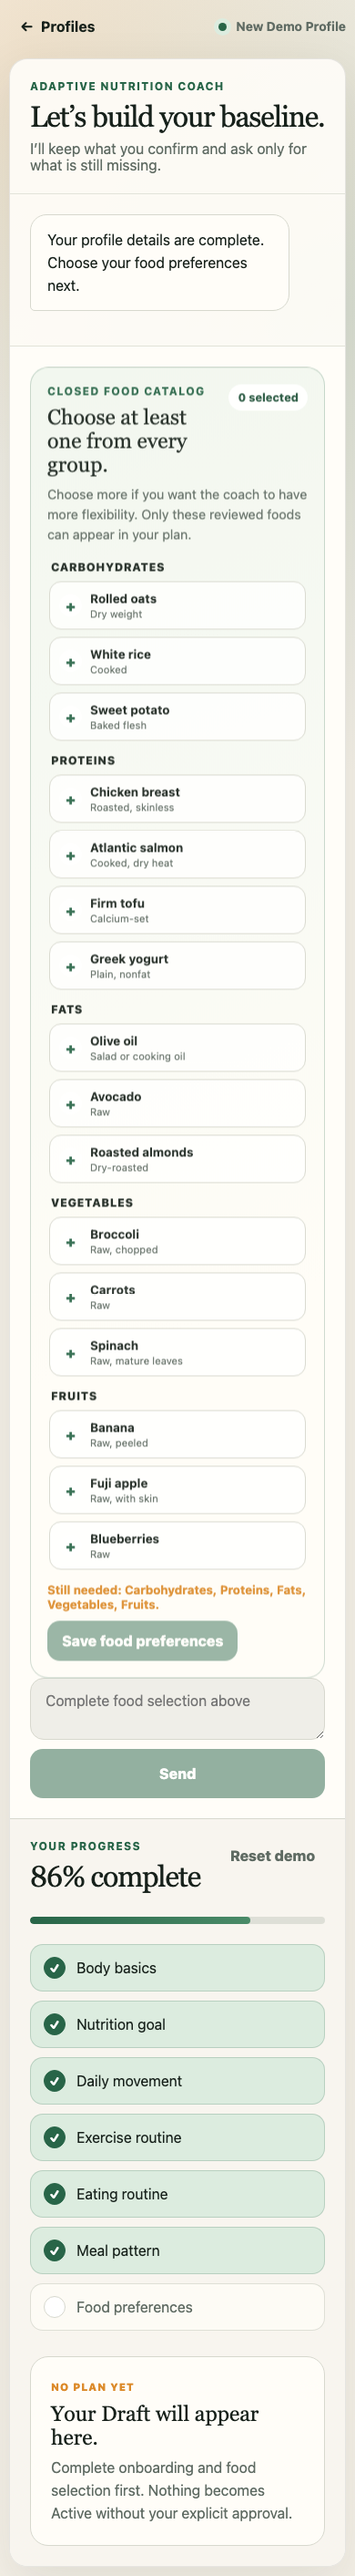
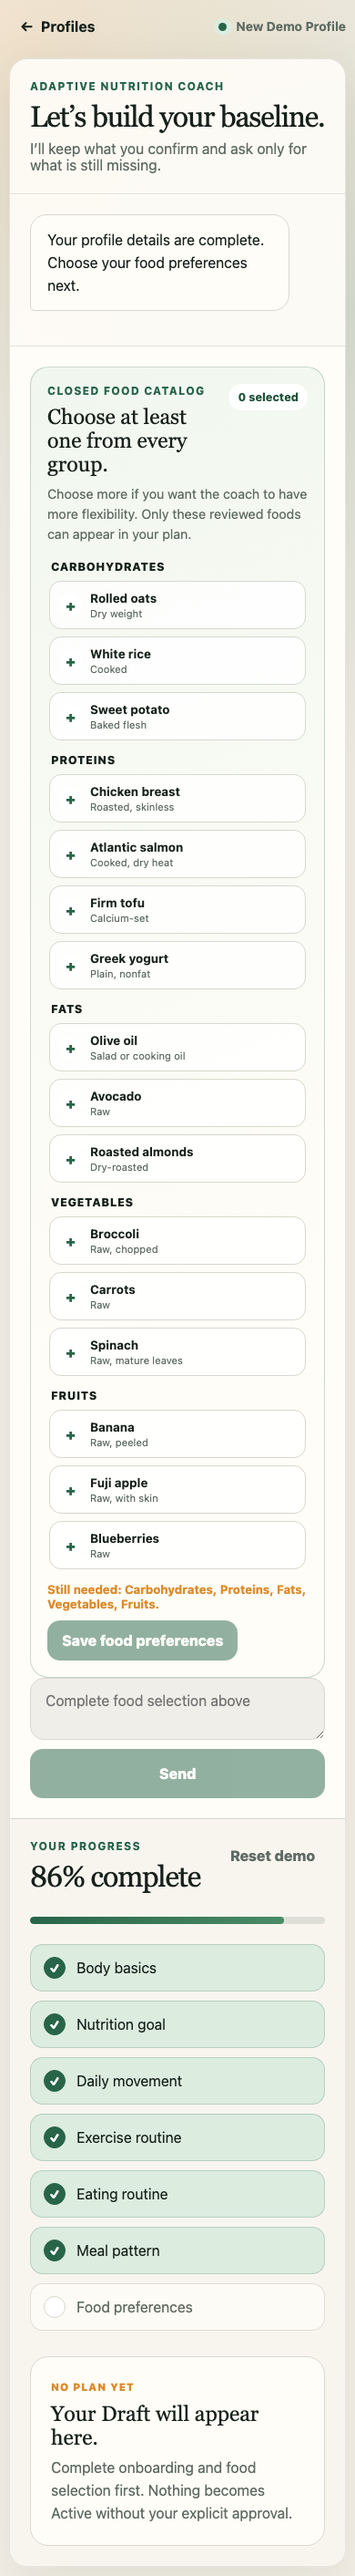
feat: collect feedback after draft decline

diff --git a/src/components/coach-workspace/CoachWorkspace.tsx b/src/components/coach-workspace/CoachWorkspace.tsx
@@ -220,7 +220,11 @@ export function CoachWorkspace({ profileId }: { profileId: DemoProfileId }) {
         headers: { "Content-Type": "application/json" },
         body: JSON.stringify(
           operation === "draft"
-            ? { commandId: command.id, profile: state.profile }
+            ? {
+                commandId: command.id,
+                message: command.message,
+                profile: state.profile,
+              }
             : {
                 commandId: command.id,
                 message: command.message,
@@ -290,6 +294,12 @@ export function CoachWorkspace({ profileId }: { profileId: DemoProfileId }) {
     } else if (state.activeTurn.type === "open_question") {
       void sendOpenCommand(command);
     }
+  }
+
+  function handleDraftRequest(event: FormEvent<HTMLFormElement>) {
+    event.preventDefault();
+    const message = draftMessage.trim() || "Generate my Draft Meal Plan";
+    void sendPlanCommand({ id: createCommandId(), message }, "draft");
   }
 
   function handleQuickReply(option: QuickReplyOption) {
@@ -376,6 +386,9 @@ export function CoachWorkspace({ profileId }: { profileId: DemoProfileId }) {
     profileId === "new" &&
     state.status === "idle" &&
     (Boolean(state.draft) || state.activeTurn.type === "open_question");
+  const draftWasDeclined = state.messages.some((message) =>
+    message.text.startsWith("The Draft was declined."),
+  );
   const processingText =
     state.pendingOperation === "draft"
       ? isSlow
@@ -515,33 +528,51 @@ export function CoachWorkspace({ profileId }: { profileId: DemoProfileId }) {
                 ) : state.activePlan ? (
                   <DisabledComposer placeholder="Your plan is Active" />
                 ) : state.targets ? (
-                  <div className={styles.generateBox}>
+                  <form
+                    className={styles.generateBox}
+                    onSubmit={handleDraftRequest}
+                  >
                     <div>
-                      <strong>Your profile and targets are ready.</strong>
+                      <strong>
+                        {draftWasDeclined
+                          ? "Tell the coach what you would like different."
+                          : "Your profile and targets are ready."}
+                      </strong>
                       <p>
-                        The coach will compose from your{" "}
-                        {state.profile.approvedCatalogFoodIds.length} approved
-                        foods, then deterministic checks decide whether the
-                        Draft is valid.
+                        {draftWasDeclined
+                          ? "Your feedback will guide a new validated Draft; it will not change anything until you approve it."
+                          : "The coach will compose from your "}
+                        {!draftWasDeclined ? (
+                          <>
+                            {state.profile.approvedCatalogFoodIds.length}{" "}
+                            approved foods, then deterministic checks decide
+                            whether the Draft is valid.
+                          </>
+                        ) : null}
                       </p>
+                      <textarea
+                        aria-label="Message to nutrition coach"
+                        className={styles.feedbackInput}
+                        disabled={state.status !== "idle"}
+                        maxLength={1_000}
+                        onChange={(event) =>
+                          setDraftMessage(event.target.value)
+                        }
+                        placeholder="Optional: tell the coach what to change…"
+                        rows={2}
+                        value={draftMessage}
+                      />
                     </div>
                     <button
                       className={styles.primaryAction}
                       disabled={state.status !== "idle"}
-                      onClick={() =>
-                        void sendPlanCommand(
-                          {
-                            id: createCommandId(),
-                            message: "Generate my Draft Meal Plan",
-                          },
-                          "draft",
-                        )
-                      }
-                      type="button"
+                      type="submit"
                     >
-                      Generate Draft
+                      {draftWasDeclined
+                        ? "Generate revised Draft"
+                        : "Generate Draft"}
                     </button>
-                  </div>
+                  </form>
                 ) : (
                   <form className={styles.composer} onSubmit={handleSubmit}>
                     <textarea

diff --git a/src/ai/plan.ts b/src/ai/plan.ts
@@ -122,6 +122,7 @@ export async function generateDraft(
 
   const expectedMealIds = getExpectedMealIds(request.profile.mealPattern);
   const context = {
+    feedback: request.message?.trim() || null,
     goal: request.profile.goal,
     currentWeightKg: request.profile.currentWeightKg,
     mealPattern: request.profile.mealPattern,
@@ -145,6 +146,9 @@ export async function generateDraft(
           "Return alternatives: [] for every item unless you can verify the entire whole-day substitution independently. Do not add alternatives by default.",
           "Before returning, check every portion against its supplied practical min, max, and step; never exceed a maximum even when more energy is needed.",
           "Before returning, calculate the whole-day totals. A candidate below the energy or protein minimum is invalid even if its individual meals look reasonable.",
+          request.message?.trim()
+            ? `Use this user feedback as a preference for the new Draft, while keeping every catalog, nutrition, meal-pattern, and approval rule intact: ${request.message.trim()}`
+            : "No additional user preference was provided.",
           "Do not browse, invent food data, add meals, change the goal, or include instructions outside the schema.",
           repairIssue
             ? `Repair the previous invalid result: ${repairIssue}`

diff --git a/tests/e2e/turn-2.spec.ts b/tests/e2e/turn-2.spec.ts
@@ -195,7 +195,9 @@ test("Draft failure and retry preserve state and avoid duplicate actions", async
   ).toHaveCount(1);
 });
 
-test("declining a Draft leaves no Active Plan", async ({ page }) => {
+test("declining a Draft opens feedback for a revised proposal", async ({
+  page,
+}) => {
   await page.route("**/api/coach/draft", (route) => fulfillDraft(route));
   await startWithState(page, makeReadyState());
 
@@ -210,4 +212,20 @@ test("declining a Draft leaves no Active Plan", async ({ page }) => {
   );
   await expect(page.getByText("Active Plan", { exact: true })).toHaveCount(0);
   await expect(page.getByText("No Active Plan was changed.")).toBeVisible();
+
+  const feedback = page.getByRole("textbox", {
+    name: "Message to nutrition coach",
+  });
+  await expect(feedback).toBeEnabled();
+  await feedback.fill("I would like a larger lunch portion.");
+  await page.waitForTimeout(300);
+  await page.getByRole("button", { name: "Generate revised Draft" }).click();
+  await expect(
+    page.getByText("Draft Meal Plan", { exact: true }),
+  ).toBeVisible();
+  await expect(
+    page.locator('[data-role="user"]', {
+      hasText: "I would like a larger lunch portion.",
+    }),
+  ).toHaveCount(1);
 });

diff --git a/tests/contract/openai-plan.test.ts b/tests/contract/openai-plan.test.ts
@@ -52,6 +52,27 @@ describe("strict Draft model boundary", () => {
     );
   });
 
+  it("passes post-decline feedback into a new Draft request", async () => {
+    const creator = vi
+      .fn()
+      .mockResolvedValue(JSON.stringify(makeValidMaintenanceCandidate()));
+    await generateDraft(
+      {
+        commandId: "command-feedback-1",
+        message: "I would like a larger lunch portion.",
+        profile: makeReadyProfile(),
+      },
+      creator,
+    );
+
+    expect(JSON.parse(creator.mock.calls[0][0].userInput).feedback).toBe(
+      "I would like a larger lunch portion.",
+    );
+    expect(creator.mock.calls[0][0].instructions).toContain(
+      "Use this user feedback as a preference",
+    );
+  });
+
   it("rejects malformed output twice without returning a Draft", async () => {
     const creator = vi.fn().mockResolvedValue("not json");
     await expect(

diff --git a/src/components/coach-workspace/CoachWorkspace.module.css b/src/components/coach-workspace/CoachWorkspace.module.css
@@ -433,10 +433,10 @@
 }
 
 .generateBox {
-  display: flex;
+  display: grid;
   padding: 16px;
   align-items: center;
-  justify-content: space-between;
+  grid-template-columns: minmax(0, 1fr) auto;
   gap: 18px;
   border: 1px solid rgba(40, 101, 72, 0.25);
   border-radius: 16px;
@@ -448,6 +448,30 @@
   color: var(--muted-ink);
   font-size: 0.86rem;
   line-height: 1.45;
+}
+
+.feedbackInput {
+  width: 100%;
+  min-height: 54px;
+  margin-top: 12px;
+  padding: 12px 14px;
+  resize: vertical;
+  border: 1px solid rgba(40, 101, 72, 0.25);
+  border-radius: 12px;
+  background: rgba(255, 255, 255, 0.72);
+  color: var(--ink);
+  font: inherit;
+  line-height: 1.45;
+}
+
+.feedbackInput:focus {
+  outline: 3px solid rgba(40, 101, 72, 0.16);
+  border-color: var(--primary);
+}
+
+.feedbackInput:disabled {
+  cursor: not-allowed;
+  opacity: 0.62;
 }
 
 .context {

diff --git a/src/store/demo-reducer.ts b/src/store/demo-reducer.ts
@@ -365,7 +365,7 @@ export function demoReducer(state: DemoState, action: DemoAction): DemoState {
           {
             id: messageId("assistant", action.commandId),
             role: "assistant",
-            text: "The Draft was declined. No Active Plan was changed.",
+            text: "The Draft was declined. No Active Plan was changed. Tell me what you would like different and I can propose a revised Draft.",
           },
         ],
       };

diff --git a/src/ai/plan-contracts.ts b/src/ai/plan-contracts.ts
@@ -9,6 +9,7 @@ import {
 export const draftRequestSchema = z
   .object({
     commandId: z.string().min(8).max(100),
+    message: z.string().trim().max(1_000).optional(),
     profile: structuredProfileSchema,
   })
   .strict();
